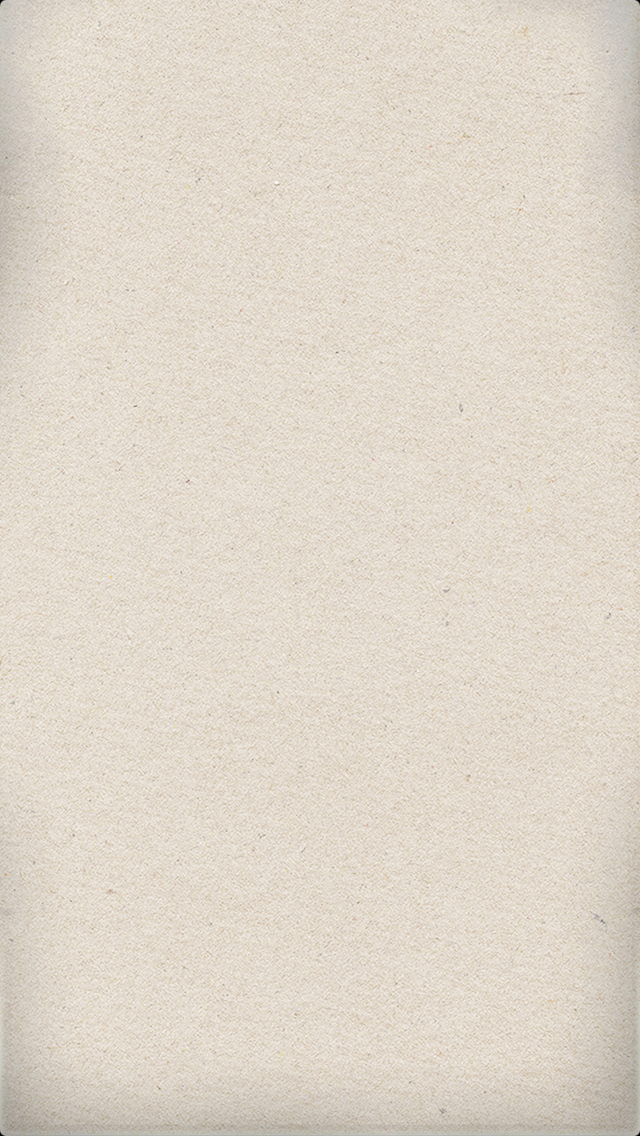
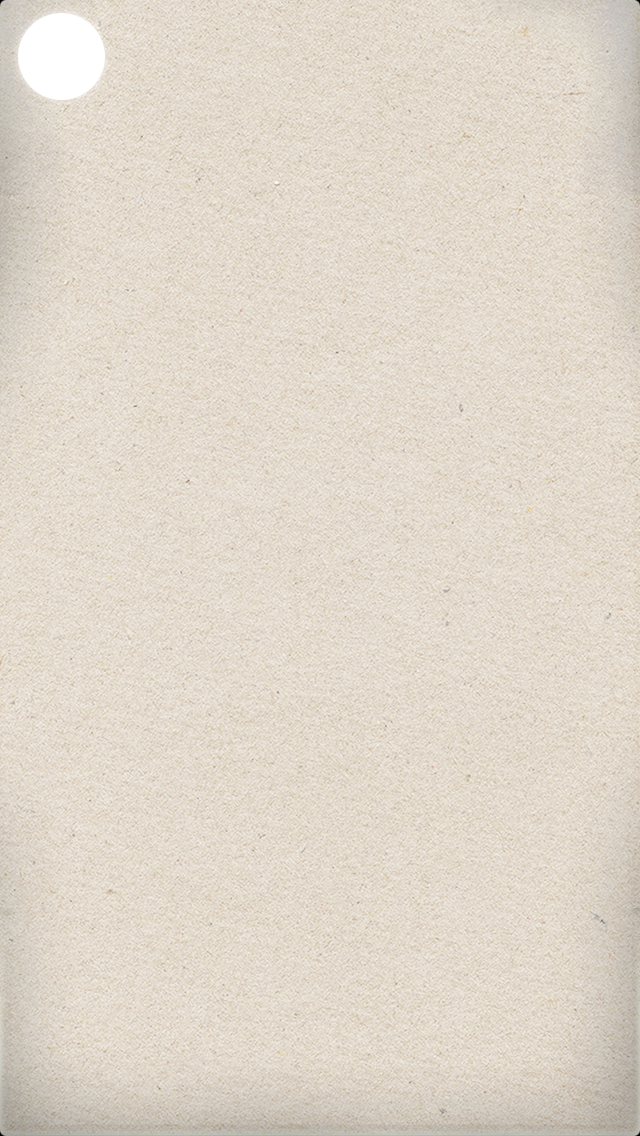
开始背单词动画

Changed region(s): [[0.0312, 0.0, 0.1875, 0.0924]]

diff --git a/GreWords/GreWords/GreWordsViewController.m b/GreWords/GreWords/GreWordsViewController.m
@@ -238,14 +238,16 @@
         self.slideBarView.transform = CGAffineTransformMakeTranslation(-300, 0);
         self.slideBarStatusTextView.transform = CGAffineTransformMakeTranslation(-300, 0);
         self.slideBarStatusView.transform = CGAffineTransformMakeTranslation(-300, 0);
+        dashboard.view.transform = CGAffineTransformConcat(CGAffineTransformMakeScale(0.2f, 0.2f), CGAffineTransformMakeTranslation(-125, -250));
         
-        WordDetailViewController *vc = [[WordDetailViewController alloc] init];
-        vc.view.alpha = 0;
-        [self.view addSubview:vc.view];
 
+        
+        
     } completion:^(BOOL finished) {
-            }];
-    
+        WordDetailViewController *vc = [[WordDetailViewController alloc] init];
+        vc.modalTransitionStyle = UIModalTransitionStyleCrossDissolve;
+        [self presentModalViewController:vc animated:YES];
+    }];
 }
 
 - (void)viewDidUnload {
